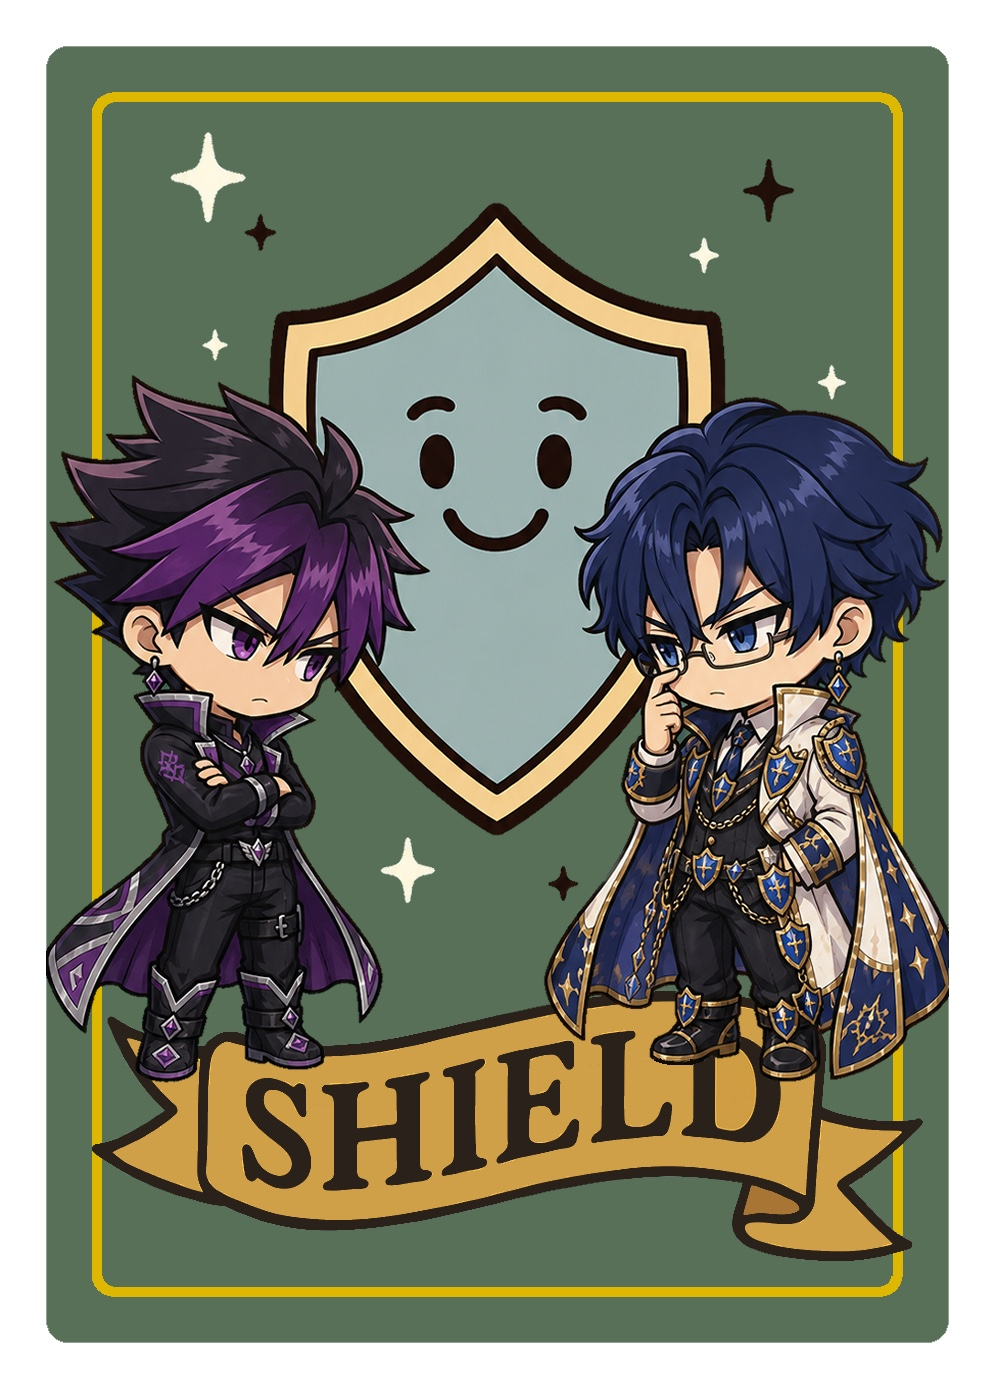
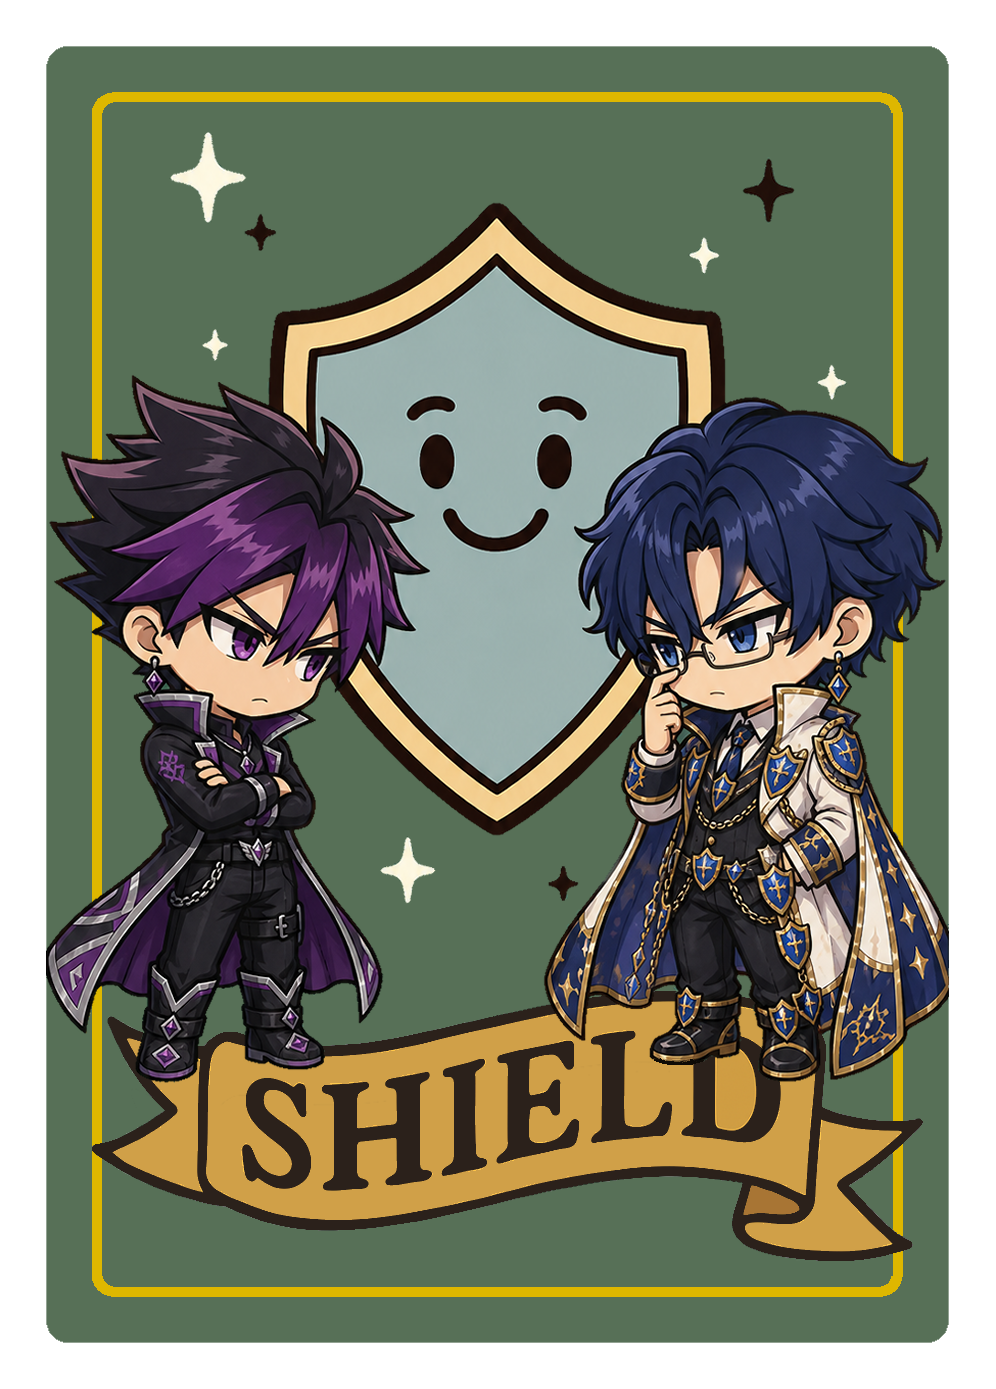
Add files via upload

diff --git a/freebattle.html b/freebattle.html
@@ -2105,9 +2105,13 @@ body.sokkoo-special-shake {
 .controls .card-btn img,
 .mini-card img,
 .panel.enemy .mini-card img{
-  border-radius: var(--hd-card-art-radius) !important;
+  border-radius: 0 !important;
   clip-path: none !important;
+  -webkit-clip-path: none !important;
+  mask-image: none !important;
+  -webkit-mask-image: none !important;
   background: transparent !important;
+  object-fit: contain !important;
 }
 .card-img{
   border:0 !important;
@@ -2260,11 +2264,11 @@ const STORY_UNLOCKED_STORAGE_KEY = "hd_story_unlocked";
 const STORY_PROGRESS_STORAGE_KEY = "hd_story_progress_v1";
 let runtimeClearedStoryStage = 0;
 const FREE_BATTLE_SKINS = [
-  { card: "短剣", label: "短剣", stage: 3, src: "skin_dagger.png" },
+  { card: "短剣", label: "短剣", stage: 3, src: "skin_master_dagger.png" },
   { card: "心臓", label: "心臓", stage: 4, src: "skin_heart.png" },
   { card: "盾", label: "盾", stage: 5, src: "skin_shield.png" },
   { card: "ソッコーハート", label: "ソッコー<br>ハート", stage: 6, src: "skin_sokkoo_heart.png" },
-  { card: "ソッコーダガー", label: "ソッコー<br>ダガー", stage: 7, src: "skin_master_dagger.png" }
+  { card: "ソッコーダガー", label: "ソッコー<br>ダガー", stage: 7, src: "skin_master_sokkoo_dagger.png" }
 ];
 
 const FREE_BATTLE_SKIN_BY_CARD = FREE_BATTLE_SKINS.reduce((map, skin) => {

diff --git a/index.html b/index.html
@@ -625,7 +625,7 @@ html,body{margin:0;width:100%;height:100%;background:#000;font-family:system-ui,
   --story-vs-ring-width:5px;
   --story-vs-charge-angle:0deg;
   --story-vs-ring-idle:#fff;
-  --story-vs-ring-active:#ff5a1f;
+  --story-vs-ring-active:#7cff6b;
   position:relative;
   justify-self:center;
   align-self:center;
@@ -658,7 +658,7 @@ html,body{margin:0;width:100%;height:100%;background:#000;font-family:system-ui,
   mask:radial-gradient(farthest-side,transparent calc(100% - var(--story-vs-ring-width) - 1px),#000 calc(100% - var(--story-vs-ring-width)),#000 100%);
 }
 .story-battle-center.charging .story-vs-medal::before{
-  filter:drop-shadow(0 0 7px rgba(255,90,31,.95));
+  filter:drop-shadow(0 0 7px rgba(124,255,107,.95));
 }
 .story-reveal-row{
   display:grid;
